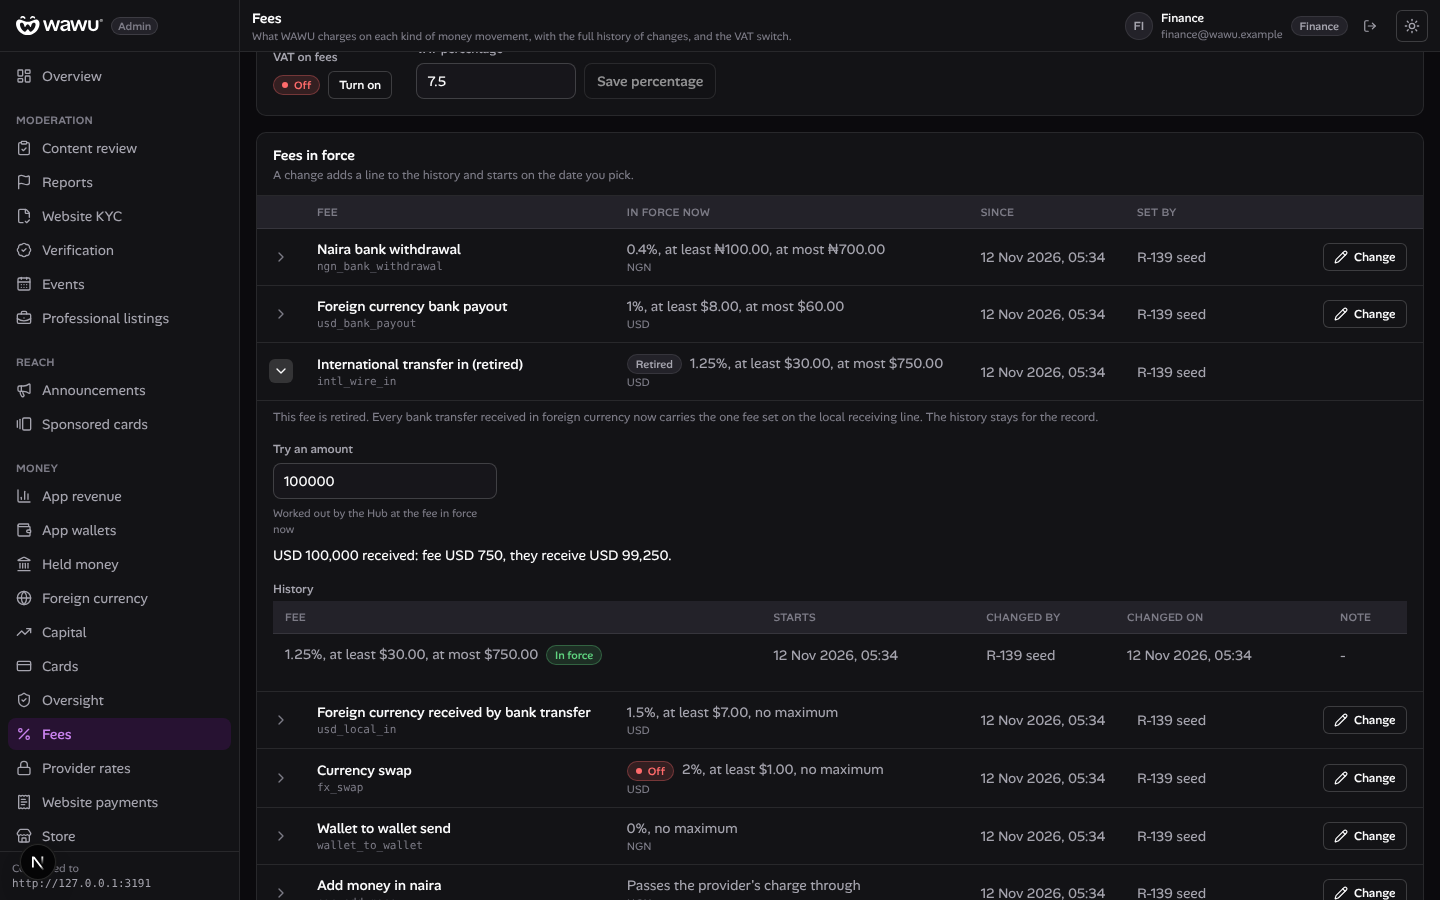
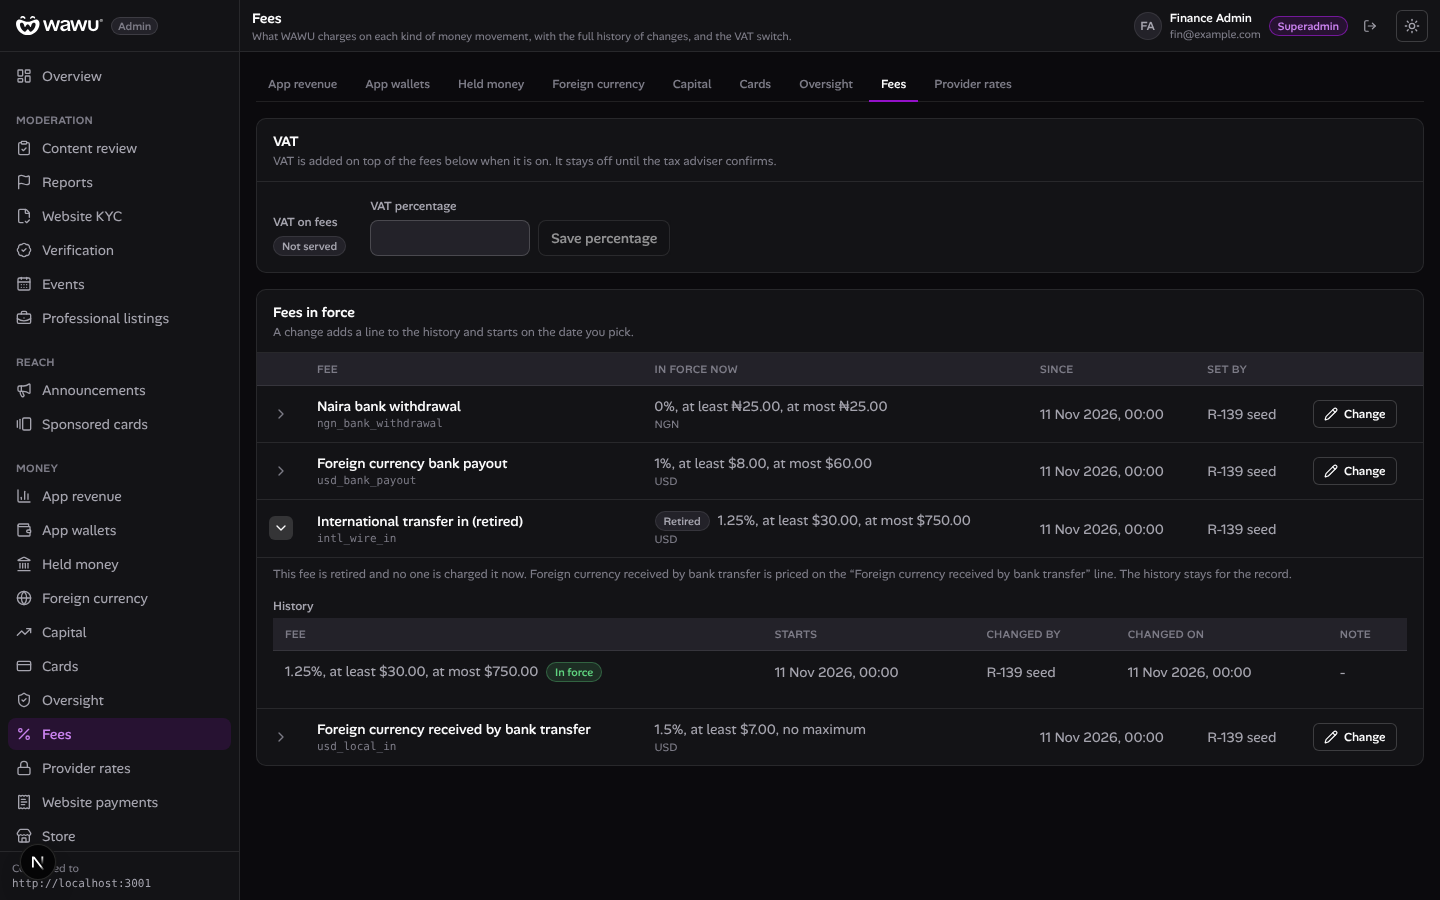
FEE-07 fix round 1: note and retired-row pictures
Claude-Session: https://claude.ai/code/session_01YVWyVbutb6jEWsPXBkYeY9

diff --git a/tasks/history/FEE-07.md b/tasks/history/FEE-07.md
@@ -59,3 +59,12 @@ Label changed per the lead; the literal "USD received by bank transfer" was trie
 ### NOT RUN
 
 `src/nuvion/handlers` has no specs of its own (jest found none; the handler is covered through src/nuvion/tests); the rest of src/nuvion/tests and the whole Hub suite (CI); a Fintava card run; the real Hub, Nuvion or a real sign-in; two concurrent card creates against one wallet (the existing suite's once-only tests passed, nothing new written); dashboard pictures were seen only as the builder's stand-in pictures, not re-taken; check:contract, check:ops-contract, check:oversight-contract (fail on main).
+
+## Fix round 1 (12 Nov 2026)
+
+Hub `wmt/FEE-07` 704c3800, dashboard `wmt/FEE-07` (see branch head), records `wmt/FEE-07-fix`.
+
+1. **MEDIUM (verifier finding 1), fixed.** `fx.handler.ts` prices only a real inflow: an `outflows.*` event (a refunded or reversed payout of ours) never reaches `DollarFeeService.onForeignInflow`, which also takes an optional `direction` and answers `none` for `out`. Specs: `FEE-07 fix: a refunded USD bank-transfer payout ...` in `src/money/fx/tests/fx-money.contract.spec.ts` (handler: refund priced 0 times, real inflow once) and `src/money/fees/engine/tests/dollar-fees.spec.ts` (direction out charged nothing and no record; USD 100 inflow pays USD 7). Both fail on 13a6a522 and pass now.
+2. **LOW (finding 2), fixed.** The retired row says it is retired, that no one is charged it, and that foreign currency received by bank transfer is priced on the "Foreign currency received by bank transfer" line; no "Try an amount" on it. Pictures `light-5` and `dark-5` re-taken (stand-in Hub by request interception, 1440x900).
+3. Findings 3 and 4 unchanged (follow-up and ops).
+NOT RUN: a real Nuvion refunded record; sharp-dependent suites (money-fees and nuvion-fees contract specs, environment).
